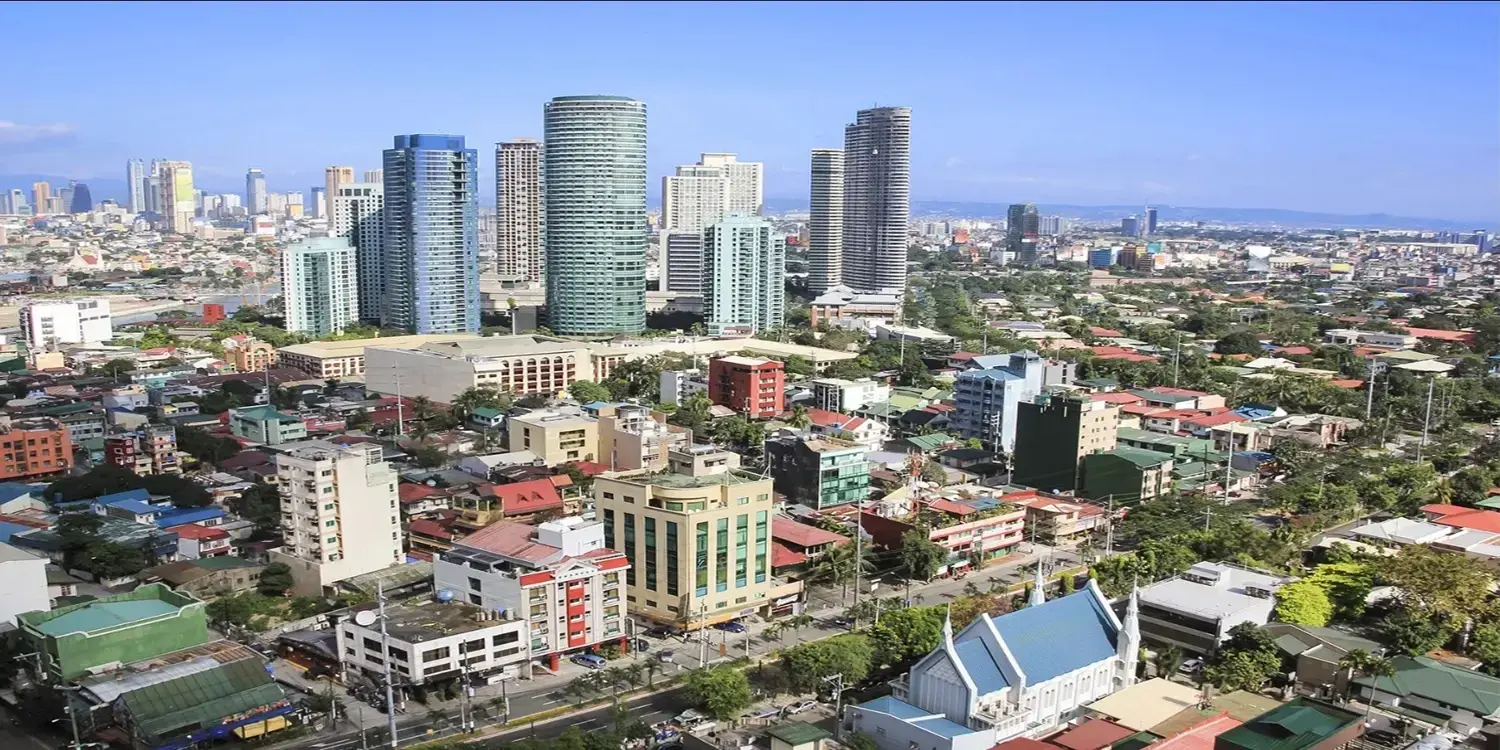
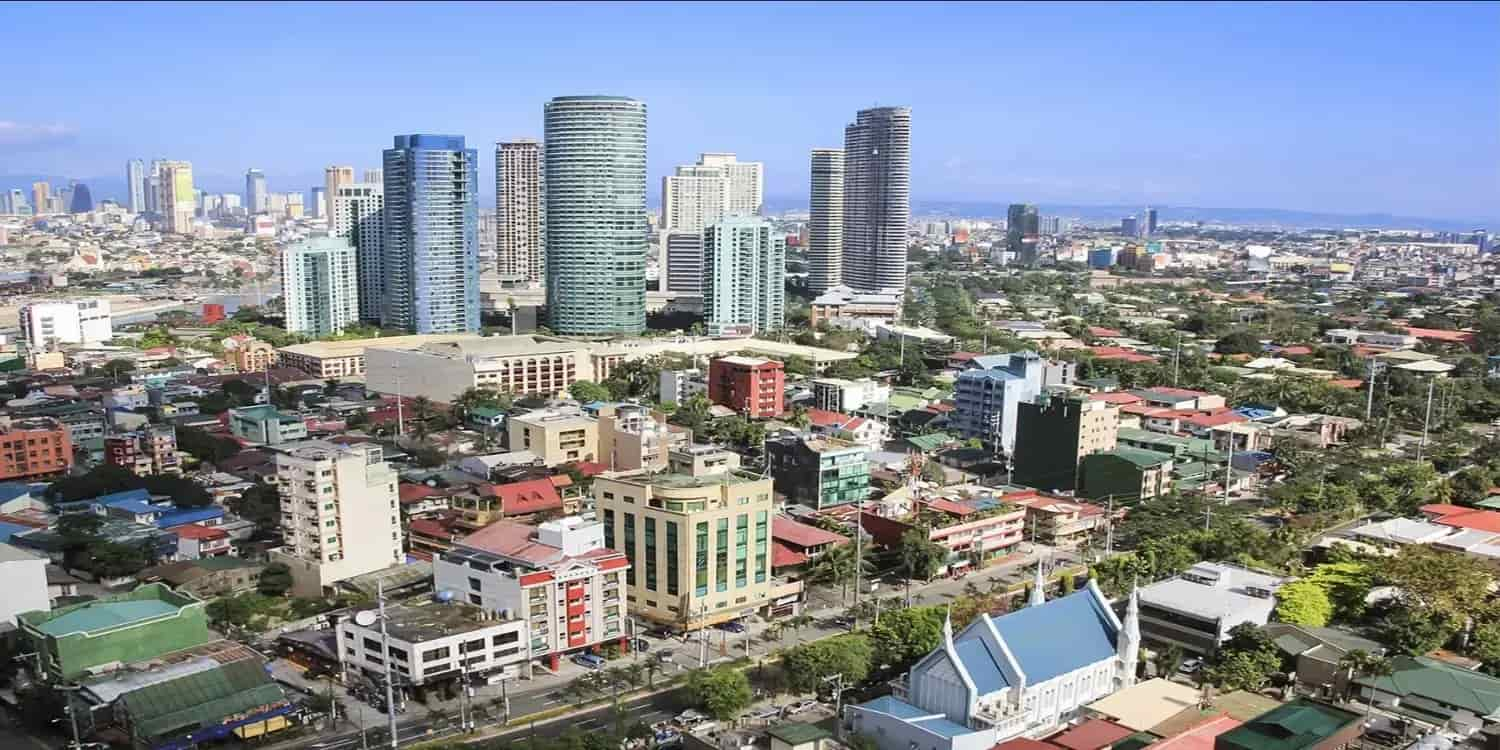
edit place.css and place.html

diff --git a/styles/place.css b/styles/place.css
@@ -6,43 +6,83 @@
     --background-color: #ffffff;
 }
 
-body {
+* {
     margin: 0;
-    font-family: Arial, sans-serif;
-    color: var(--text-color);
-    background-color: var(--background-color);
+    padding: 0;
+    box-sizing: border-box;
 }
 
+/* Body */
+body {
+    font-family: 'Roboto', sans-serif;
+    color: var(--text-color);
+    background-color: var(--background-color);
+    line-height: 1.6;
+}
+
+/* Header */
 header {
     background-color: var(--primary-color);
     color: white;
     text-align: center;
-    padding: 1rem;
+    padding: 1.2rem;
 }
 
+header h1 {
+    font-size: 2rem;
+}
+
+/* Main */
+main {
+    position: relative;
+}
+
+/* Hero Image */
 picture img {
     width: 100%;
+    height: auto;
     display: block;
+    object-fit: cover;
 }
 
-main {
-    padding: 1rem;
-}
-
+/* Sections */
 section {
-    margin-bottom: 2rem;
-    padding: 1rem;
-    border: 1px solid #ccc;
+    padding: 1.5rem;
+    background-color: white;
 }
 
-.weather h2::after {
-    content: " ⛅";
+/* Data and Weather */
+.data,
+.weather {
+    text-align: center;
 }
 
+/* Section Headings */
+.data h2,
+.weather h2 {
+    margin-bottom: 1rem;
+    color: var(--primary-color);
+    font-size: 1.5rem;
+}
+
+/* Paragraph Spacing */
+.data p,
+.weather p {
+    margin-bottom: 0.5rem;
+}
+
+/* Weather Icon */
 .weather-icon {
     width: 60px;
+    margin-bottom: 1rem;
 }
 
+/* Pseudo-element only for larger screens */
+.weather h2::after {
+    content: "";
+}
+
+/* Footer */
 footer {
     background-color: var(--secondary-color);
     color: white;
@@ -50,21 +90,73 @@ footer {
     padding: 1rem;
 }
 
+footer p {
+    margin: 0.3rem 0;
+}
+
 footer a {
     color: white;
     font-size: 0.8rem;
+    text-decoration: none;
 }
 
-/* Large Screen */
+footer a:hover {
+    text-decoration: underline;
+}
+
+/* ========================= */
+/* LARGE SCREEN STYLES */
+/* ========================= */
+
 @media screen and (min-width: 768px) {
 
     main {
-        display: grid;
-        grid-template-columns: 1fr 1fr;
-        gap: 1rem;
+        max-width: 1400px;
+        margin: 0 auto;
     }
 
+    /* Floating Data Box */
+    .data {
+        position: absolute;
+        top: 40px;
+        left: 40px;
+
+        width: 280px;
+
+        background-color: rgba(255, 255, 255, 0.9);
+
+        border-radius: 10px;
+
+        box-shadow: 0 4px 10px rgba(0,0,0,0.3);
+    }
+
+    /* Floating Weather Box */
+    .weather {
+        position: absolute;
+        bottom: 40px;
+        right: 40px;
+
+        width: 280px;
+
+        background-color: rgba(255, 255, 255, 0.9);
+
+        border-radius: 10px;
+
+        box-shadow: 0 4px 10px rgba(0,0,0,0.3);
+    }
+
+    /* Hide SVG icon on larger screens */
     .weather-icon {
         display: none;
+    }
+
+    /* Show emoji icon in heading */
+    .weather h2::after {
+        content: " ⛅";
+    }
+
+    /* Larger heading */
+    header h1 {
+        font-size: 2.5rem;
     }
 }

diff --git a/place.html b/place.html
@@ -9,6 +9,10 @@
     <meta name="author" content="Liezl G. Lizardo">
     
     <link rel="stylesheet" href="styles/place.css">
+    <link rel="preconnect" href="https://fonts.googleapis.com">
+    <link rel="preconnect" href="https://fonts.gstatic.com" crossorigin>
+
+    <link href="https://fonts.googleapis.com/css2?family=Roboto:wght@400;700&display=swap">
     <script src="scripts/place.js" defer></script>
 </head>
 
